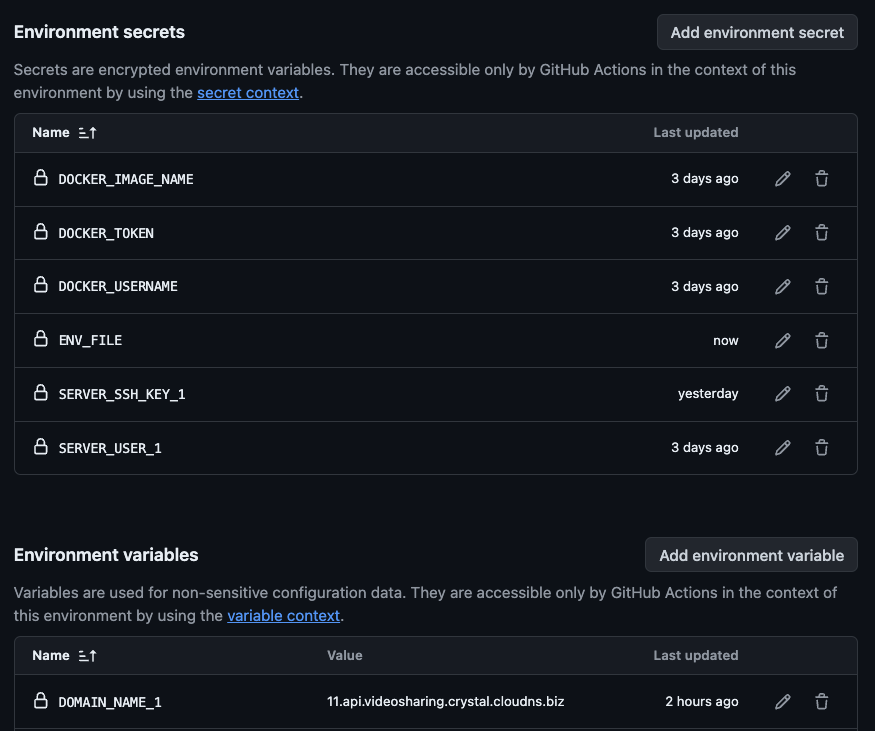
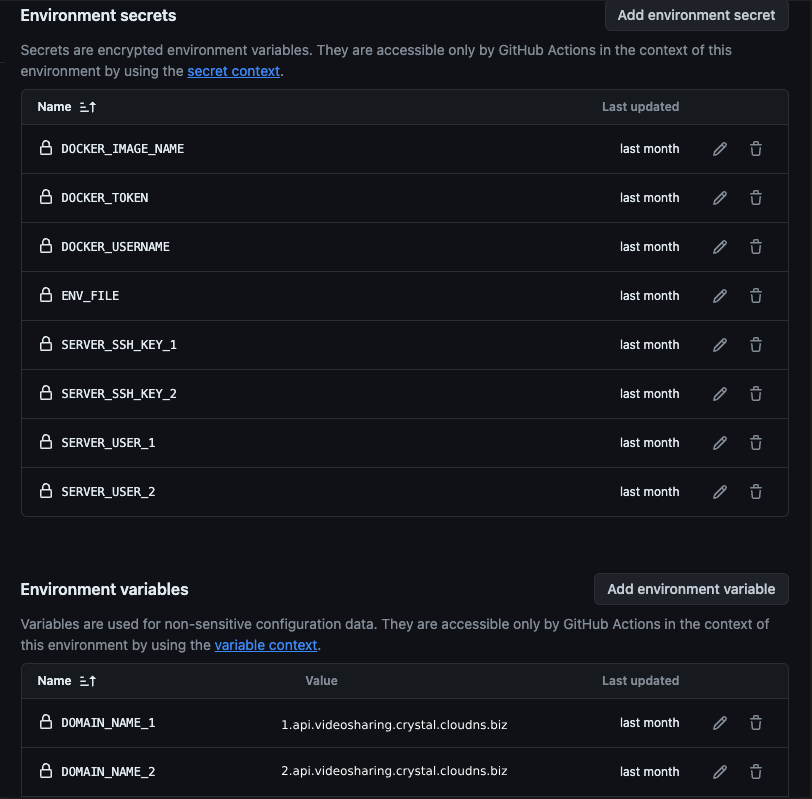
update readme.md

diff --git a/README.md b/README.md
@@ -1,12 +1,12 @@
 # Introduce
-This is application for sharing youtube video
+This is project for people can share any youtube videos. And other logged in use can receive notification when someone share new video.
 
 # System Application Overview
  Application base on
   - Ruby 3.3.3
-  - Rails 7.0.8
+  - Rails 7.1.3
   - Postgresql 16
-  - Redis
+  - Redis 7.2.4
 
 # How to get the application up and run
 - Clone repo git clone https://github.com/SJS-Crystal/youtube_video_sharing_api.git
@@ -35,8 +35,120 @@ This is application for sharing youtube video
   docker-compose run api bundle exec bundle-audit check --update
   ```
 
-* Services (job queues, cache servers, search engines, etc.)
 
-* Deployment instructions
 
-![alt text](doc_images/image.png)
+
+# Deployment
+
+## Prerequirement:
+- Make sure you have server with ubuntu 22.04(or later) and domain
+- Point your domain to server ip
+- In repo, **Settings > Environments**, create 4 environments in repo for contain env variables, secrets: `production`, `development`, `test`, `staging`
+- Create 4 environments to restrict deploying: `approval_production_deloyment`, `approval_staging_deloyment`, `approval_test_deloyment`, `approval_development_deloyment`
+- Create 2 environments to restrict merging PR into `develop` and `main` branch: `approval_merge_main_branch`, `approval_merge_develop_branch`
+- Restrict people can approve deploying and approval merging by config environments: `approval_production_deloyment`, `approval_staging_deloyment`, `approval_test_deloyment`, `approval_development_deloyment`, `approval_merge_main_branch`, `approval_merge_develop_branch`
+
+![alt text](doc_images/image-2.png)
+
+
+
+- In **Settings > Branchs**, create theses 3 rules to make sure github workflow work in correct flow
+![alt text](doc_images/image-6.png)
+
+
+- `main` rule
+
+![alt text](doc_images/image-4.png)
+
+
+
+- `release*` rule
+
+![alt text](doc_images/image-5.png)
+
+
+
+- `develop` rule
+
+![alt text](doc_images/image-7.png)
+
+
+
+- In repo, **Settings > Tags**, create new rule with pattern `*` to protect all tag, only admin can create new tag for release production
+
+![alt text](doc_images/image-8.png)
+
+
+
+
+## Preparing
+### Config server credentials
+1. Create ssh key: run `ssh-keygen` and follow assist prompt, and you have a public key and private key.
+2. Copy SSH public key to server: `ssh-copy-id -i <path_to_publib_key> <username>@<host_ip>`.
+
+   Example:
+   > `ssh-copy-id -i ~/.ssh/id_rsa.pub root@188.166.236.134`
+4. If this is first time you connect to this server, maybe you see a prompt like **Are you sure you want to continue connecting (yes/no)?**, let type `yes` > Enter
+5. `cat ~/.ssh/id_rsa` to get ssh private key and copy this and set **SERVER_SSH_KEY_1** secret on github. (*you can adjust ~/.ssh/id_rsa to your file you create above*)
+6. Set **SERVER_USER_1** environment secrets on every github environment. **This user must has sudo Privileges**
+7. Set **DOMAIN_NAME_1** environment variables on every github environment
+
+
+### Create Docker hub
+- Login https://hub.docker.com/ and create a new repository
+- In every github environment, set your **DOCKER_USERNAME** to your docker username
+- In every github environment, set your **DOCKER_USERNAME** to your docker repository name
+- Access to your docker profile > Security > New Access Token, make sure select `Read & Write` permissions, now you have docker access token
+- In every github environment, set your **DOCKER_TOKEN** to your docker access token
+- In every github environment, set **ENV_FILE** secret to content in .env file corresponding
+
+    - ENV in every environment: `production`, `development`, `test`, `staging` should look like this
+
+  ![alt text](doc_images/image-1.png)
+
+
+    - In `development` environment, can use many servers for deploying many feature branchs. It looks like this:
+
+  ![alt text](doc_images/image.png)
+
+
+
+
+
+
+## Deploy
+### Development
+- Create PR to `develop` branch and comment this command in Conversation tab of PR `/build_and_deploy_s<SERVER NUMBER>`.
+    Example:
+  > Comment `/build_and_deploy_s1` for to to server 1
+  
+  > Comment `/build_and_deploy_s2` for deploy to server 2
+  
+  > ...
+
+### Test
+- After PR (merge into develop) is ready for merging, let merge that PR. CD Workflow will be triggered to build and deploy to test environment. 
+
+### Staging
+- Create release or hotfix branch
+   - Release branch: From `develop` branch, cherry pick commits(that need release) into new release branch starting with `release` like `release-1.0`, `release-1.1` ...
+   - Hotfix branch: From `main` branch, check out to new branch starting with `hotfix` like `hotfix-description_xxx`...
+- Create PR merge into `main` branch from release or hotfix branch
+- CD Workflow will be triggered to build and deploy to staging environment
+
+### Production
+- Create PR and Merge code into main from release or hotfix branch
+- Create new tag with form `v*.*.*` and target branch(`main`) or commit need release and click `Publish release` button. CD Workflow will be triggered to build and deploy to production 
+
+![alt text](doc_images/image-9.png)
+
+
+## Restore
+In case need restore to previous version in specify environment, let use `Deploy with options` workflow in `Actions tab > Deploy with options`
+- Leave Branch as default
+- Select environment need restore
+- Select target docker image tag
+- Click `Run workflow`
+
+For example, following will restore production environment to image with version 1.0.1
+![alt text](doc_images/image-10.png)
